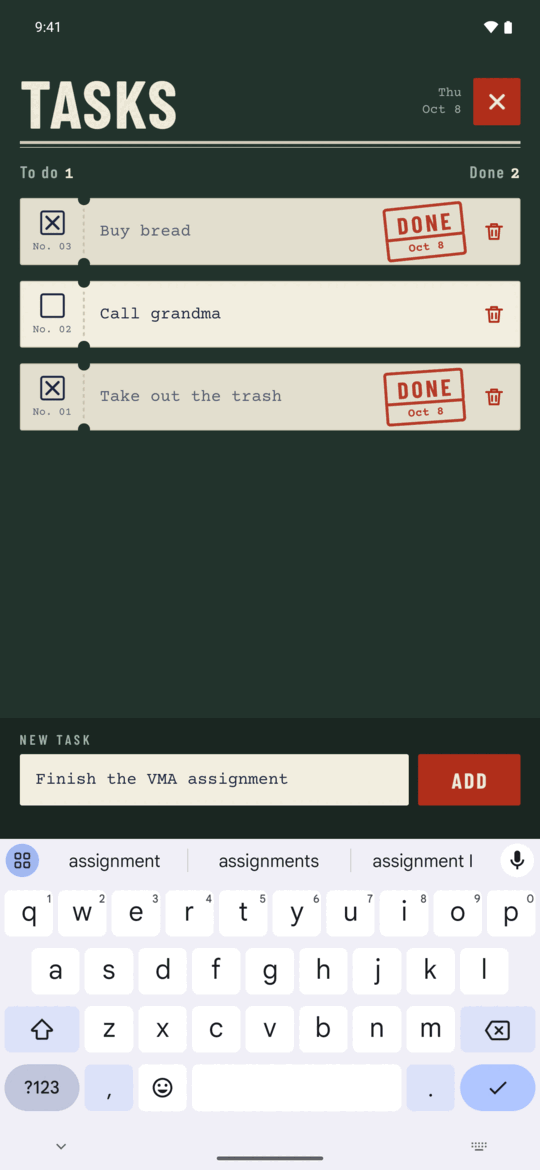
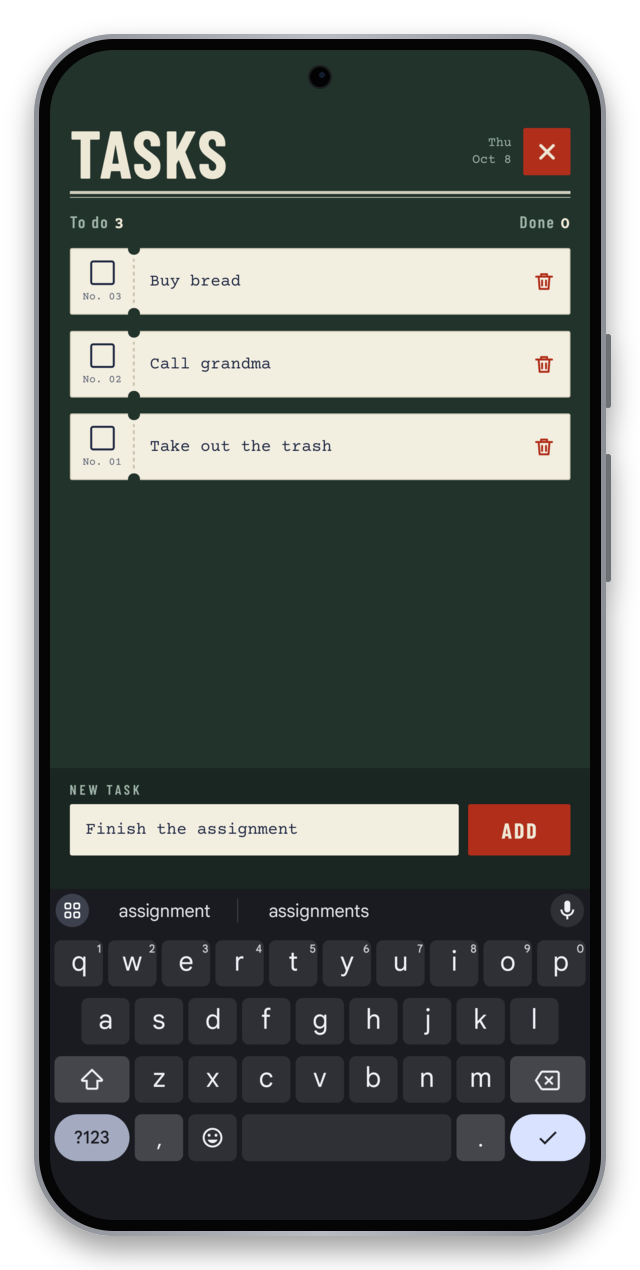
Install from the APK and reframe the screenshots in a phone
The README now sends people to the latest release for stamp.apk instead
of cloning and running a dev server. Running from source and building
the APK are a short section further down.

The screenshots come from the release build on an emulator in dark
mode, with the status bar and the navigation bar cleared and a phone
frame drawn around them. The bars were painted over with the screen's
own background colour, which is flat in those strips.

diff --git a/README.md b/README.md
@@ -2,7 +2,7 @@
 
 [![Expo SDK][expo-shield]][expo-url]
 [![React Native][rn-shield]][rn-url]
-[![Runs in Expo Go][go-shield]][go-url]
+[![Download APK][apk-shield]][apk-url]
 
 <br />
 <div align="center">
@@ -18,7 +18,7 @@
     <a href="#about-the-project"><strong>See the screens »</strong></a>
     <br />
     <br />
-    <a href="#getting-started">Run it</a>
+    <a href="https://github.com/dankouwu/stamp/releases/latest">Download the APK</a>
     &middot;
     <a href="https://github.com/dankouwu/stamp/issues">Report a bug</a>
   </p>
@@ -33,14 +33,9 @@
         <li><a href="#built-with">Built with</a></li>
       </ul>
     </li>
-    <li>
-      <a href="#getting-started">Getting started</a>
-      <ul>
-        <li><a href="#prerequisites">Prerequisites</a></li>
-        <li><a href="#installation">Installation</a></li>
-      </ul>
-    </li>
+    <li><a href="#install">Install</a></li>
     <li><a href="#usage">Usage</a></li>
+    <li><a href="#development">Development</a></li>
     <li><a href="#project-structure">Project structure</a></li>
     <li><a href="#roadmap">Roadmap</a></li>
     <li><a href="#acknowledgments">Acknowledgments</a></li>
@@ -83,31 +78,15 @@ A few choices that are not obvious from the screenshots:
 
 <p align="right">(<a href="#readme-top">back to top</a>)</p>
 
-## Getting started
+## Install
 
-### Prerequisites
+Stamp is an Android app. There is no iPhone version.
 
-* [Node.js](https://nodejs.org/) LTS
-* The Expo Go app on your phone, from Google Play or the App Store. Its version has to match the project's SDK, which is 57.
+1. On your phone, open the [latest release](https://github.com/dankouwu/stamp/releases/latest) and download `stamp.apk`.
+2. Open the downloaded file. If Android asks, allow your browser or file manager to install apps.
+3. Tap Install, then open Stamp.
 
-### Installation
-
-1. Clone the repo
-   ```sh
-   git clone https://github.com/dankouwu/stamp.git
-   cd stamp
-   ```
-2. Install the packages
-   ```sh
-   npm install
-   ```
-3. Start the dev server
-   ```sh
-   npx expo start
-   ```
-4. Scan the QR code from the terminal with Expo Go. On Android use the scanner inside Expo Go, on iPhone use the Camera app. The phone and the computer must be on the same network.
-
-If the network blocks the connection, `npx expo start --tunnel` works around it. On Android you can also use a USB cable: run `adb reverse tcp:8081 tcp:8081`, then open `exp://localhost:8081` in Expo Go.
+It needs Android 7.0 or newer. The APK is signed with a debug key and is not on Google Play, so Android or Play Protect may show a warning before installing. That is expected for an app installed from a file.
 
 <p align="right">(<a href="#readme-top">back to top</a>)</p>
 
@@ -118,7 +97,32 @@ If the network blocks the connection, `npx expo start --tunnel` works around it.
 3. Tap a slip to stamp it as done. Tap it again to take the stamp off.
 4. Tap the red trash icon to delete a slip. Press **UNDO** within five seconds to bring it back.
 
-Where the app has been run: an Android 14 phone and an Android 15 emulator, both through Expo Go. It has not been run on iOS.
+The release APK has been installed and run on an Android 15 emulator. An earlier build of the same code ran on an Android 14 phone through Expo Go. It has not been run on iOS.
+
+<p align="right">(<a href="#readme-top">back to top</a>)</p>
+
+## Development
+
+To run from source you need [Node.js](https://nodejs.org/) LTS and the Expo Go app, with a version that matches SDK 57.
+
+```sh
+git clone https://github.com/dankouwu/stamp.git
+cd stamp
+npm install
+npx expo start
+```
+
+Scan the QR code with Expo Go. The phone and the computer must be on the same network. If that fails, `npx expo start --tunnel` works around it.
+
+To build the APK yourself you need JDK 17 and the Android SDK:
+
+```sh
+npx expo prebuild --platform android
+cd android
+./gradlew assembleRelease
+```
+
+The file ends up in `android/app/build/outputs/apk/release/`.
 
 <p align="right">(<a href="#readme-top">back to top</a>)</p>
 
@@ -150,7 +154,8 @@ src/components/
 - [x] Undo for deletes
 - [ ] Edit the text of an existing task
 - [ ] Clear all done tasks at once
-- [ ] A standalone build, so the app runs without Expo Go
+- [x] A standalone Android build
+- [ ] An iPhone build
 
 <p align="right">(<a href="#readme-top">back to top</a>)</p>
 
@@ -164,8 +169,8 @@ src/components/
 
 [expo-shield]: https://img.shields.io/badge/Expo%20SDK-57-000020?style=for-the-badge&logo=expo&logoColor=white
 [rn-shield]: https://img.shields.io/badge/React%20Native-0.86-20232a?style=for-the-badge&logo=react&logoColor=61DAFB
-[go-shield]: https://img.shields.io/badge/Runs%20in-Expo%20Go-B02E1A?style=for-the-badge
-[go-url]: https://expo.dev/go
+[apk-shield]: https://img.shields.io/badge/Download-Android%20APK-B02E1A?style=for-the-badge&logo=android&logoColor=white
+[apk-url]: https://github.com/dankouwu/stamp/releases/latest
 [expo-badge]: https://img.shields.io/badge/Expo-000020?style=for-the-badge&logo=expo&logoColor=white
 [expo-url]: https://expo.dev/
 [rn-badge]: https://img.shields.io/badge/React%20Native-20232a?style=for-the-badge&logo=react&logoColor=61DAFB
